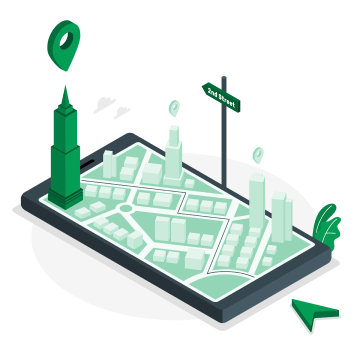
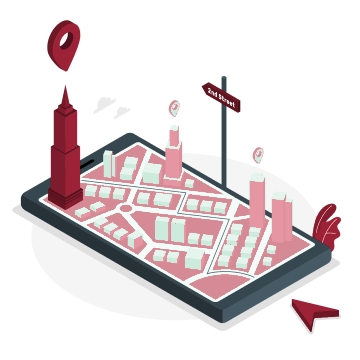
Replace 6amMart landing artwork with Tomato Deliverz branding.

diff --git a/lib/features/location/screens/web_landing_page.dart b/lib/features/location/screens/web_landing_page.dart
@@ -103,9 +103,12 @@ class _WebLandingPageState extends State<WebLandingPage> {
                     right: _isRtl! ? const Radius.circular(0) : const Radius.circular(Dimensions.radiusDefault),
                     left: _isRtl! ? const Radius.circular(Dimensions.radiusDefault) : const Radius.circular(0),
                   ),
-                  child: CustomImage(
-                    image: '${splashController.landingModel != null ? splashController.landingModel!.fixedHeaderImageFullUrl : ''}',
-                    height: 270, fit: BoxFit.cover,
+                  child: ColoredBox(
+                    color: const Color(0xFFE43853),
+                    child: Padding(
+                      padding: const EdgeInsets.symmetric(horizontal: 28, vertical: 24),
+                      child: Image.asset(Images.logo, fit: BoxFit.contain),
+                    ),
                   ),
                 ))),
               ]),
@@ -452,10 +455,7 @@ class _WebLandingPageState extends State<WebLandingPage> {
 
             splashController.landingModel != null && (splashController.landingModel!.downloadUserAppLinks!.playstoreUrlStatus == '1' || splashController.landingModel!.downloadUserAppLinks!.appleStoreUrlStatus == '1')
             ? Row(mainAxisAlignment: MainAxisAlignment.spaceEvenly, children: [
-              CustomImage(
-                image: '${splashController.landingModel!.downloadUserAppImageFullUrl}',
-                width: 500,
-              ),
+              Image.asset(Images.logo, width: 280, fit: BoxFit.contain),
               Column(children: [
                 Text(
                   splashController.landingModel!.downloadUserAppTitle ?? '', textAlign: TextAlign.center,

diff --git a/web/index.html b/web/index.html
@@ -15,7 +15,9 @@
   <link rel="apple-touch-icon" href="icons/Icon-192.png">
 
   <!-- Favicon -->
-  <link rel="icon" type="image/png" href="favicon.png"/>
+  <link rel="icon" type="image/png" sizes="32x32" href="favicon.png?v=tomato2"/>
+  <link rel="shortcut icon" type="image/png" href="favicon.png?v=tomato2"/>
+  <link rel="icon" type="image/x-icon" href="favicon.ico?v=tomato2"/>
 
   <meta name="google-signin-client_id" content="1000163153346-48ckm2uf7h70hmgn74kg1gq02sval158.apps.googleusercontent.com">
 
